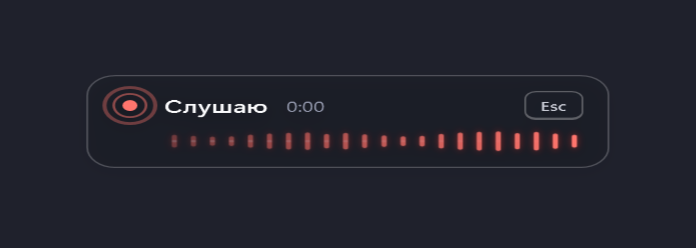
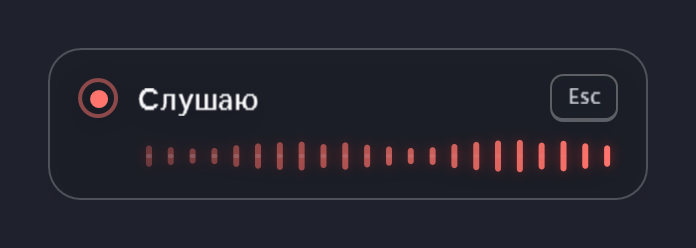
fix(preview): capture windows without distortion
UiPreview painted the window through a default VisualBrush, which
stretches the visual's content bounds (drop shadow included) to fill
the target rectangle. The overlay came out about 1.4x too flat: its
round indicator was oval and the text looked stretched. The brush now
maps the content rectangle 1:1, and the capture is sized by the
rendered content instead of the window, so a framed window no longer
counts its title bar.

Product captures, the product sheet, banners and the social preview are
regenerated from the corrected captures.

diff --git a/tests/VoiceInput.UiPreview/Program.cs b/tests/VoiceInput.UiPreview/Program.cs
@@ -91,8 +91,10 @@ internal static class Program
         Pump(window, TimeSpan.FromMilliseconds(450));
         var visual = (Visual)VisualTreeHelper.GetChild(window, 0);
         var margin = window is MainWindow ? 24 : 0;
-        var width = (int)Math.Ceiling(window.ActualWidth);
-        var height = (int)Math.Ceiling(window.ActualHeight);
+        // Measure the rendered content, not the window: a framed window's size also counts its title bar and borders.
+        var content = visual as FrameworkElement;
+        var width = (int)Math.Ceiling(content?.ActualWidth ?? window.ActualWidth);
+        var height = (int)Math.Ceiling(content?.ActualHeight ?? window.ActualHeight);
         const double dpi = 192;
         var scale = dpi / 96;
 
@@ -111,7 +113,17 @@ internal static class Program
                 new SolidColorBrush(window is MainWindow ? Color.FromRgb(31, 33, 44) : Color.FromRgb(14, 16, 22)),
                 null,
                 new Rect(0, 0, width + (2 * margin), height + (2 * margin)));
-            context.DrawRectangle(new VisualBrush(visual), null, new Rect(margin, margin, width, height));
+            // Map the window rectangle 1:1. A default VisualBrush stretches the visual's content bounds —
+            // which include the drop shadow — to fill the target, and that squeezes the overlay out of proportion.
+            var brush = new VisualBrush(visual)
+            {
+                Stretch = Stretch.None,
+                AlignmentX = AlignmentX.Left,
+                AlignmentY = AlignmentY.Top,
+                ViewboxUnits = BrushMappingMode.Absolute,
+                Viewbox = new Rect(0, 0, width, height),
+            };
+            context.DrawRectangle(brush, null, new Rect(margin, margin, width, height));
         }
 
         bitmap.Render(canvas);
